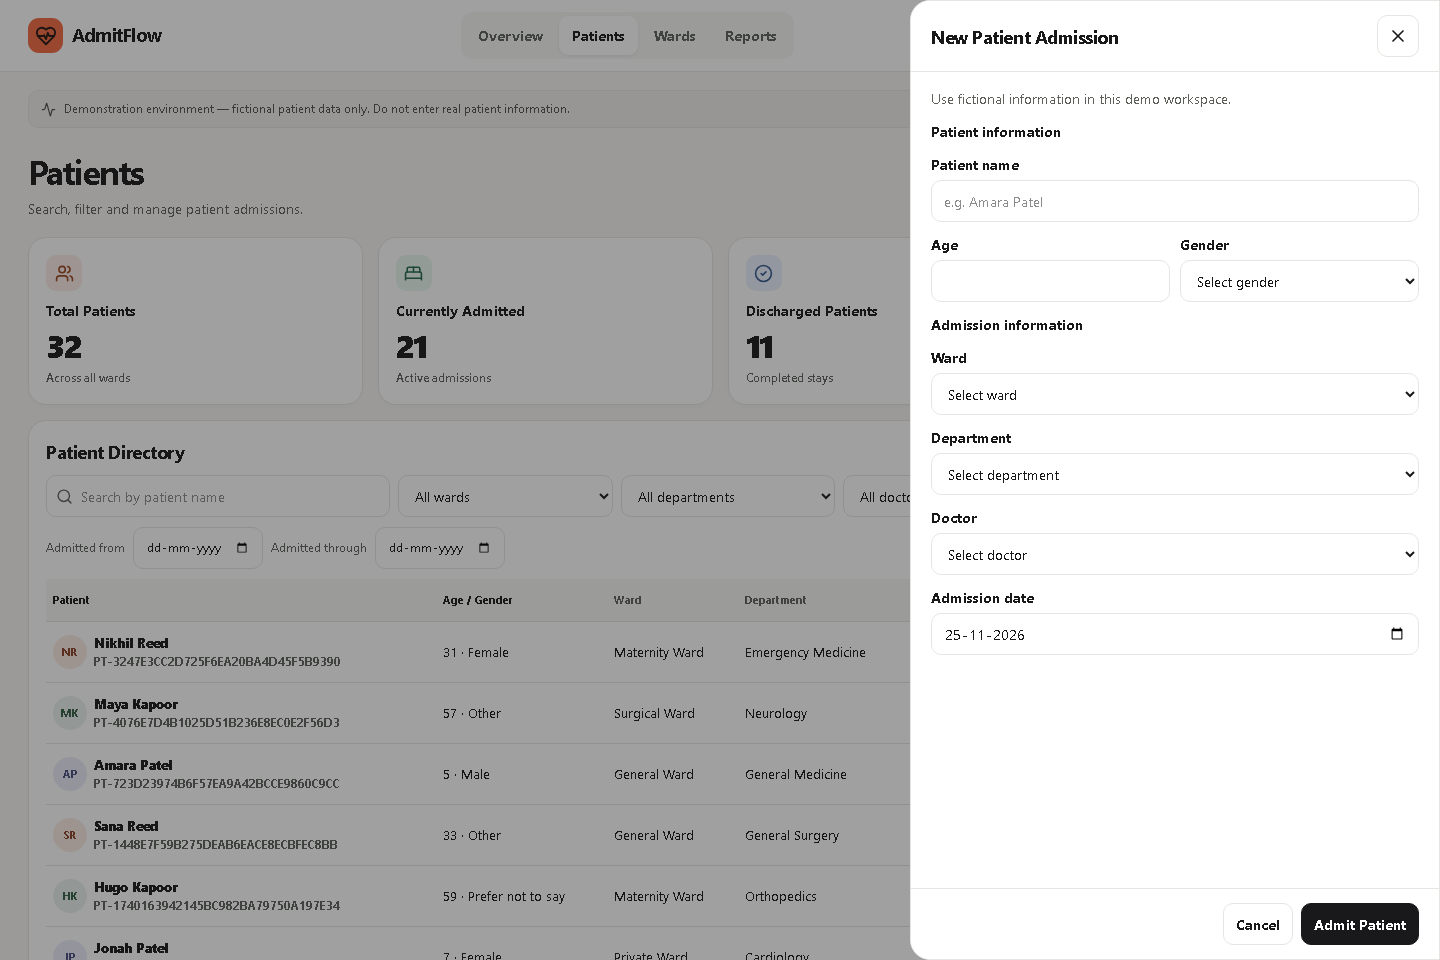
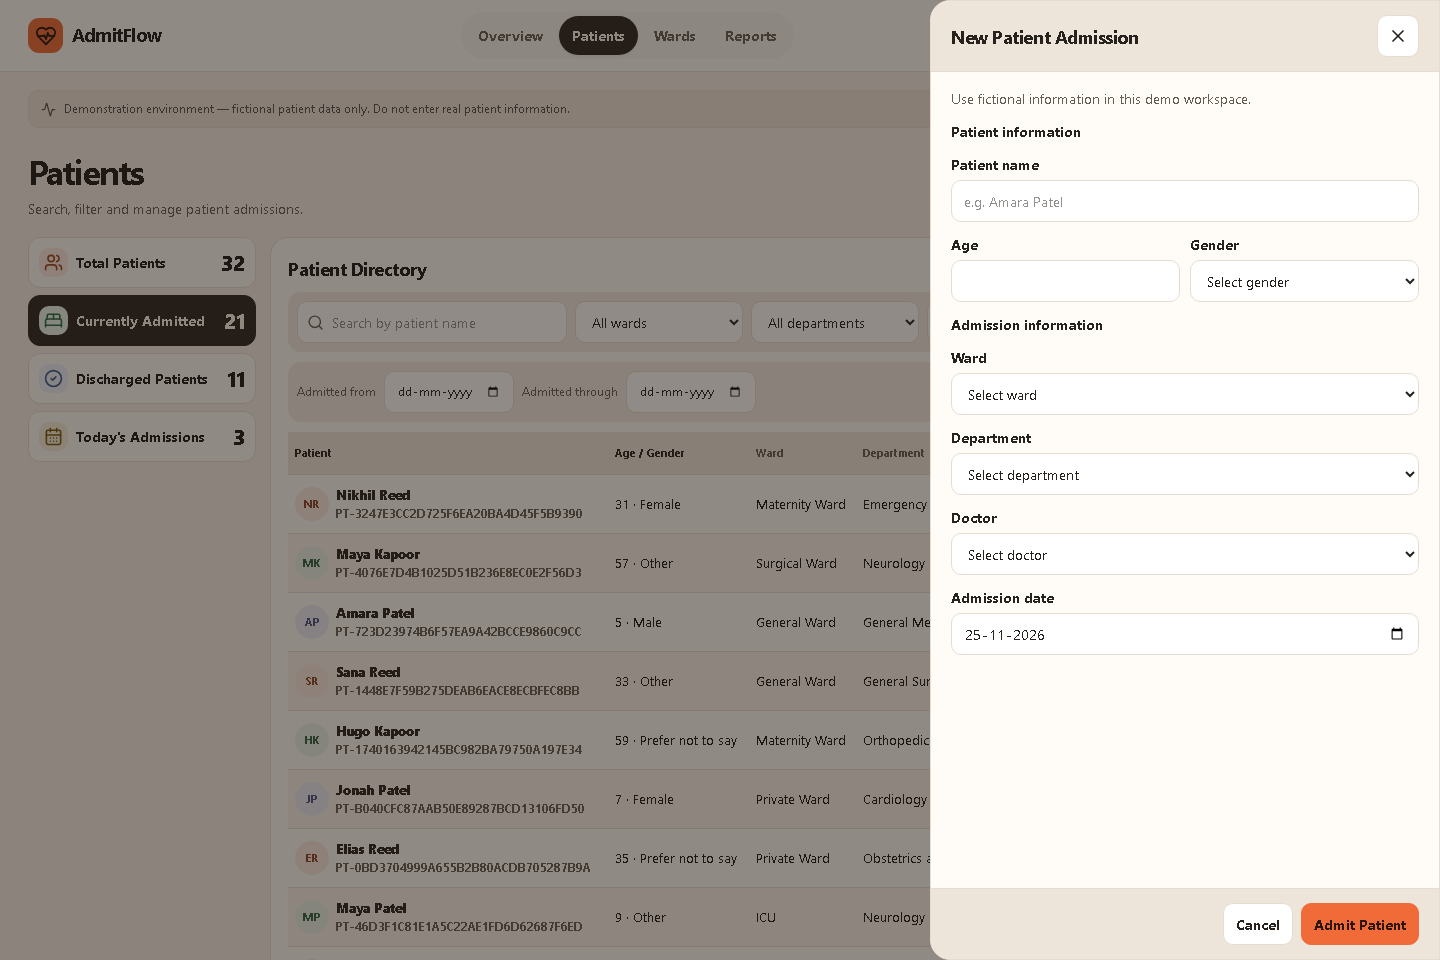
Redesign admission workspaces for desktop and mobile

diff --git a/frontend/src/App.tsx b/frontend/src/App.tsx
@@ -50,10 +50,44 @@ function PatientRows({rows,catalog,open,sort,onSort}:{rows:Patient[];catalog:Cat
 }
 function Overview({summary,catalog,open}:{summary:Summary;catalog:Catalog;open:Open}) {
   const recent=useQuery({queryKey:['patients','recent'],queryFn:()=>api<Page>('/patients?page_size=5&sort_by=created_at')})
-  return <><Heading title="Hospital Overview" description="Monitor patient admissions and hospital operations."><span className="date-label"><CalendarDays size={15}/>{displayDate(businessDay())}</span><New open={open}/></Heading>
-    <Metrics summary={summary}/><div className="dashboard-grid"><Trend summary={summary}/><Distribution title="Active Admissions by Ward" entries={Object.entries(catalog.wards).map(([id,name])=>[name,summary.wards[id].Admitted])}/></div>
-    <section className="panel table-panel"><div className="section-head"><h2>Recent Patients</h2><Link to="/patients">View all <ArrowRight size={15}/></Link></div>{recent.data?<PatientRows rows={recent.data.items} catalog={catalog} open={open}/>:<DataState error={recent.isError} retry={()=>void recent.refetch()}/>}</section>
-    <div className="dashboard-grid"><Distribution title="Patients by Department" entries={Object.entries(catalog.departments).map(([id,name])=>[name,summary.departments[id]||0])}/><section className="panel"><h2>Quick Actions</h2><div className="quick"><New open={open}/><Link className="button" to="/patients">View All Patients</Link><Link className="button" to="/patients?status=Admitted">View Active Admissions</Link><Link className="button" to="/patients?status=Discharged">View Discharged Patients</Link></div></section></div></>
+  return <>
+    <Heading title="Hospital Overview" description="Monitor patient admissions and hospital operations.">
+      <span className="date-label"><CalendarDays size={15}/>{displayDate(businessDay())}</span>
+    </Heading>
+    <div className="overview-workspace">
+      <aside className="overview-queue">
+        <section className="panel priority">
+          <span>Active admissions</span>
+          <strong>{summary.admitted}</strong>
+          <New open={open}/>
+        </section>
+        <section className="panel queue-links">
+          <h2>Patient activity</h2>
+          <Link to="/patients"><Users size={17}/><span>All patients</span><strong>{summary.total}</strong></Link>
+          <Link to="/patients?status=Discharged"><CircleCheck size={17}/><span>Discharged</span><strong>{summary.discharged}</strong></Link>
+          <Link to={'/patients?admission_from='+businessDay()+'&admission_to='+businessDay()}><CalendarDays size={17}/><span>Admitted today</span><strong>{summary.today}</strong></Link>
+        </section>
+      </aside>
+      <div className="overview-center">
+        <Trend summary={summary}/>
+        <Distribution title="Active Admissions by Ward" entries={Object.entries(catalog.wards).map(([id,name])=>[name,summary.wards[id].Admitted])}/>
+      </div>
+      <aside className="overview-recent">
+        <section className="panel recent-feed">
+          <div className="section-head"><h2>Recent Patients</h2><Link to="/patients" aria-label="View all patients"><ArrowRight size={17}/></Link></div>
+          {recent.data ? recent.data.items.length ? <ul>
+            {recent.data.items.map(patient=><li key={patient.id}>
+              <button className="identity" onClick={()=>open({kind:'detail',patient})}>
+                <Avatar name={patient.name}/><span><strong>{patient.name}</strong><small>{catalog.wards[patient.ward_id]}</small></span>
+              </button>
+              <Status patient={patient}/>
+            </li>)}
+          </ul> : <p className="muted">No recent admissions</p> : <DataState error={recent.isError} retry={()=>void recent.refetch()}/>}
+        </section>
+        <Distribution title="Patients by Department" entries={Object.entries(catalog.departments).map(([id,name])=>[name,summary.departments[id]||0])}/>
+      </aside>
+    </div>
+  </>
 }
 const filterKeys=['ward_id','department_id','doctor_id','status','admission_from','admission_to'] as const
 function FilterSelect({name,value,options,change}:{name:string;value:string;options:Record<string,string>;change:(value:string)=>void}) {
@@ -86,9 +120,9 @@ function Directory({catalog,summary,open}:{catalog:Catalog;summary:Summary;open:
     if(key==='department_id'&&next.has('doctor_id')&&catalog.doctors[next.get('doctor_id')!]?.department_id!==value&&value)next.delete('doctor_id')
     return next
   })
-  return <><Heading title="Patients" description="Search, filter and manage patient admissions."><Export query={params.toString()}/><New open={open}/></Heading><div className="directory-metrics"><Metrics summary={summary}/></div>
-    <section className="panel table-panel"><div className="section-head"><h2>Patient Directory</h2><span className="muted">{current?.total ?? '…'} matching records</span></div>
-      <div className="filters">
+  return <><Heading title="Patients" description="Search, filter and manage patient admissions."><Export query={params.toString()}/><New open={open}/></Heading><div className="directory-workspace"><aside className="directory-metrics" aria-label="Patient activity"><Metrics summary={summary}/></aside>
+    <section className="panel table-panel directory-panel"><div className="section-head"><h2>Patient Directory</h2><span className="muted">{current?.total ?? '…'} matching records</span></div>
+      <div className="filters directory-filters">
         <div className="search"><Search size={17}/><input aria-label="Search by patient name" placeholder="Search by patient name" value={search} maxLength={120} onChange={e=>setSearch(e.target.value)}/>{search&&<button className="icon" aria-label="Clear search" onClick={()=>setSearch('')}><X size={16}/></button>}</div>
         <FilterSelect name="Wards" value={params.get('ward_id')||''} options={catalog.wards} change={value=>update('ward_id',value)}/>
         <FilterSelect name="Departments" value={params.get('department_id')||''} options={catalog.departments} change={value=>update('department_id',value)}/>
@@ -101,7 +135,7 @@ function Directory({catalog,summary,open}:{catalog:Catalog;summary:Summary;open:
         <label>Rows per page <select value={size} onChange={e=>{setSize(+e.target.value);setPage(1)}}>{[5,10,25,50].map(n=><option key={n}>{n}</option>)}</select></label>
         <div className="row"><button className="icon" aria-label="Previous page" disabled={current.page===1} onClick={()=>setPage(current.page-1)}><ChevronLeft size={18}/></button><span>Page {current.page} of {Math.max(1,Math.ceil(current.total/current.page_size))}</span><button className="icon" aria-label="Next page" disabled={current.page*current.page_size>=current.total} onClick={()=>setPage(current.page+1)}><ChevronRight size={18}/></button></div>
       </div></>:<DataState error={list.isError} retry={()=>void list.refetch()}/>}
-    </section></>
+    </section></div></>
 }
 function Wards({catalog,summary,open}:{catalog:Catalog;summary:Summary;open:Open}) {
   return <><Heading title="Ward Management" description="Review active and completed admissions across wards."/><div className="ward-grid">{Object.entries(catalog.wards).map(([id,name])=><Ward key={id} id={id} name={name} counts={summary.wards[id]} open={open}/>)}</div></>
@@ -146,7 +180,7 @@ export default function App() {
   const close=()=>open(null)
   const saved=(message:string)=>{close();setNotice(message);for(const key of ['patients','summary','reports'])void cache.invalidateQueries({queryKey:[key]})}
   const lookups=catalog.data
-  return <><a className="skip" href="#main">Skip to content</a><header className="top"><div className="top-inner"><Link to="/" className="brand"><span><HeartPulse size={22}/></span>AdmitFlow</Link><nav aria-label="Primary navigation" className="desktop-nav">{nav.map(([href,label])=><NavLink key={href} to={href} end={href==='/'}>{label}</NavLink>)}</nav><div className="row top-actions"><button className="icon" aria-label="Search patients" onClick={()=>{navigate('/patients');requestAnimationFrame(()=>document.querySelector<HTMLInputElement>('.search input')?.focus())}}><Search size={18}/></button><span className="workspace"><span/> Demo workspace</span><New open={open}/></div></div></header>
+  return <><a className="skip" href="#main" onClick={event=>{event.preventDefault();document.getElementById('main')?.focus()}}>Skip to content</a><header className="top"><div className="top-inner"><Link to="/" className="brand"><span><HeartPulse size={22}/></span>AdmitFlow</Link><nav aria-label="Primary navigation" className="desktop-nav">{nav.map(([href,label])=><NavLink key={href} to={href} end={href==='/'}>{label}</NavLink>)}</nav><div className="row top-actions"><button className="icon" aria-label="Search patients" onClick={()=>{navigate('/patients');requestAnimationFrame(()=>document.querySelector<HTMLInputElement>('.search input')?.focus())}}><Search size={18}/></button><span className="workspace"><span/> Demo workspace</span><New open={open}/></div></div></header>
     <motion.main id="main" tabIndex={-1} initial={reduced?false:{opacity:0,y:6}} animate={{opacity:1,y:0}} transition={{duration:.2}}><div className="demo"><Activity size={15}/> Demonstration environment — fictional patient data only. Do not enter real patient information.</div>
     {lookups&&summary.data?<Routes><Route path="/" element={<Overview catalog={lookups} summary={summary.data} open={open}/>}/><Route path="/patients" element={<Directory catalog={lookups} summary={summary.data} open={open}/>}/><Route path="/wards" element={<Wards catalog={lookups} summary={summary.data} open={open}/>}/><Route path="/reports" element={<Reports catalog={lookups}/>}/><Route path="*" element={<Heading title="Page not found" description="Return to the overview to continue."><Link className="button" to="/">Overview</Link></Heading>}/></Routes>:<DataState error={catalog.isError||summary.isError} retry={()=>{void catalog.refetch();void summary.refetch()}}/>}</motion.main>
     <nav className="mobile-nav" aria-label="Mobile navigation">{nav.map(([href,label,Icon],i)=><div key={href}>{i===2&&<button className="mobile-admit" onClick={()=>open({kind:'new'})}><Plus size={21}/>Admit</button>}<NavLink to={href} end={href==='/'}><Icon size={19}/>{label}</NavLink></div>)}</nav>

diff --git a/frontend/src/style.css b/frontend/src/style.css
@@ -156,3 +156,68 @@ dialog::backdrop{background:#17171968}
   .directory-metrics .metric small{display:none}
   .patients-table .identity small{overflow:hidden;text-overflow:ellipsis;white-space:nowrap;max-width:18ch}
 }
+/* Admission workspace */
+:root{--ink:#27221e;--muted:#655c54;--line:#e5dcd2;--accent:#f16b39;--surface:#fffcf8;background:#f4efe8;font-family:"Segoe UI",system-ui,sans-serif}
+.top,.panel{background:var(--surface);box-shadow:none}
+.desktop-nav,.desktop-nav a{border-radius:999px}
+.desktop-nav a.active{background:#292421;color:#fffaf5}
+button.primary{background:var(--accent);border-color:var(--accent);color:#2b170e}
+button.primary:hover{background:#ff885b;border-color:#ff885b}
+.demo,.dialog-head,.dialog-foot{background:#eee5da}
+.overview-workspace,.directory-workspace{display:grid;gap:14px;align-items:start}
+.overview-workspace{grid-template-columns:minmax(210px,1fr) minmax(0,2.15fr) minmax(278px,1.35fr)}
+.overview-center,.overview-queue,.overview-recent{display:grid;gap:14px;min-width:0}
+.overview-workspace .chart{height:278px}
+.priority{display:grid;gap:7px;background:#272320;color:#fff6ef;border-color:#272320}
+.priority>span{color:#f0d9c9}
+.priority>strong{font-size:clamp(36px,4vw,62px);line-height:1.02;letter-spacing:-.055em}
+.priority>button{justify-self:start;border-radius:999px;margin-top:4px}
+.queue-links a{display:grid;grid-template-columns:18px minmax(0,1fr) auto;align-items:center;gap:8px;min-height:43px;border-bottom:1px solid var(--line)}
+.queue-links a:last-child,.recent-feed li:last-child{border-bottom:0}
+.queue-links svg{color:#a03f22}
+.recent-feed ul{list-style:none;padding:0;margin:0}
+.recent-feed li{display:flex;align-items:center;justify-content:space-between;gap:6px;border-bottom:1px solid var(--line);padding:6px 0}
+.recent-feed .identity{min-width:0;text-align:left;overflow-wrap:anywhere}
+.recent-feed .status{flex-shrink:0}
+.directory-workspace{grid-template-columns:minmax(190px,1fr) minmax(0,5fr)}
+.directory-metrics .metrics{grid-template-columns:minmax(0,1fr);gap:7px}
+.directory-metrics .metric{position:static;grid-template-columns:auto minmax(0,1fr) auto;align-items:center;gap:8px;padding:10px;border-radius:12px}
+.directory-metrics .metric-icon{position:static;width:29px;height:29px;margin:0}
+.directory-metrics .metric strong{font-size:21px}
+.directory-metrics .metric small{display:none}
+.directory-metrics .metric:nth-child(2){background:#272320;color:#fff6ef;border-color:#272320}
+.directory-panel .filters{padding:9px;border-radius:13px;background:#f2ece4}
+.directory-panel .search,.directory-panel .search input{min-width:0}
+.directory-panel .search input{width:100%}
+.directory-panel .patients-table th{background:#eee7de}
+.directory-panel .patients-table tbody tr:nth-child(even){background:#fbf5ed}
+.directory-panel .patients-table td{padding-block:8px}
+.drawer,.modal{background:var(--surface)}
+.drawer{width:min(100%,510px)}
+dialog::backdrop{background:#22181080}
+.toast{background:#272320;color:#fff6ef}
+@media(max-width:1150px){
+  .overview-workspace{grid-template-columns:minmax(180px,1fr) minmax(0,2.35fr)}
+  .overview-recent{grid-column:1/-1;grid-template-columns:repeat(2,minmax(0,1fr))}
+}
+@media(max-width:850px){
+  .directory-workspace{grid-template-columns:minmax(0,1fr)}
+  .directory-metrics{order:1}
+  .directory-metrics .metrics{grid-template-columns:repeat(2,minmax(0,1fr))}
+  .directory-panel .patients-table tbody tr:nth-child(even){background:var(--surface)}
+  .directory-panel .patients-table tr{background:var(--surface);border-radius:16px}
+  .directory-panel .patients-table td{padding-block:3px}
+  .mobile-nav{background:var(--surface)}
+  .mobile-nav .mobile-admit{width:48px;min-height:48px;align-self:center;margin-inline:3px;border-radius:50%;color:#26160e}
+}
+@media(max-width:600px){
+  .overview-workspace,.overview-recent{grid-template-columns:minmax(0,1fr)}
+  .overview-workspace .chart{height:215px}
+  .priority{padding:17px}
+  .priority>button{justify-self:stretch}
+  .directory-panel .date-filters{display:grid;grid-template-columns:repeat(2,minmax(0,1fr))}
+  .directory-panel .date-filters label{display:grid;min-width:0;gap:3px}
+  .directory-panel .date-filters input{width:100%;min-width:0}
+  .directory-metrics .metric{grid-template-columns:minmax(0,1fr) auto}
+  .directory-metrics .metric-icon{display:none}
+}

diff --git a/docs/UI_REDESIGN_COMPARISON.md b/docs/UI_REDESIGN_COMPARISON.md
@@ -1,0 +1,12 @@
+# AdmitFlow visual comparison
+
+The before captures are from the previous Chromium build. The after captures use the redesigned app and the same capture script, viewport and UI state. Desktop comparisons use 1440 by 960 and mobile uses 390 by 844.
+
+| Screen | Visible reference | Before and after | Design decision |
+| --- | --- | --- | --- |
+| Desktop overview | image(20261124-181525).png, still | [Before](../screenshots/before/desktop-overview.png) · [After](../screenshots/desktop-overview.png) | Patient activity sits in the left rail, admission trends take the center, and the right rail previews recent records. AdmitFlow uses actual admission data in place of the reference's rehabilitation modules. |
+| Desktop directory | image(20261124-181525).png, still | [Before](../screenshots/before/desktop-patients.png) · [After](../screenshots/desktop-patients.png) | A compact activity rail makes room for the working table. Filter groups have their own surfaces. The still shows an overview, so the directory is an adaptation of its layout hierarchy. |
+| Mobile directory | ebda32157054db6a498e698c9c840f64.webp, still | [Before](../screenshots/before/mobile-patients.png) · [After](../screenshots/mobile-patients.png) | The search and results come before secondary metrics. Patient cards retain searchable names, identifiers and accessible actions. The circular coral admission control adapts the reference's mobile navigation. |
+| Admission drawer | Both stills, surface and accent cues | [Before](../screenshots/before/admission-drawer.png) · [After](../screenshots/admission-drawer.png) | Warm surfaces, a coral primary action and a toned backdrop extend the same hierarchy to the native dialog. The opening and closing transitions could not be compared to video. |
+
+The three videos could not be transferred because the transfer host failed DNS resolution. This affected 1f99cfe90c5d8de81c7f073839422361(1).mp4 (the re-upload omits the suffix), 9dd0cab085199516ee63b383d3560ec1.mp4 and 2a9519af1f3e30dc968fda2df664479f.mp4. No video timestamps or motion fidelity are claimed.
